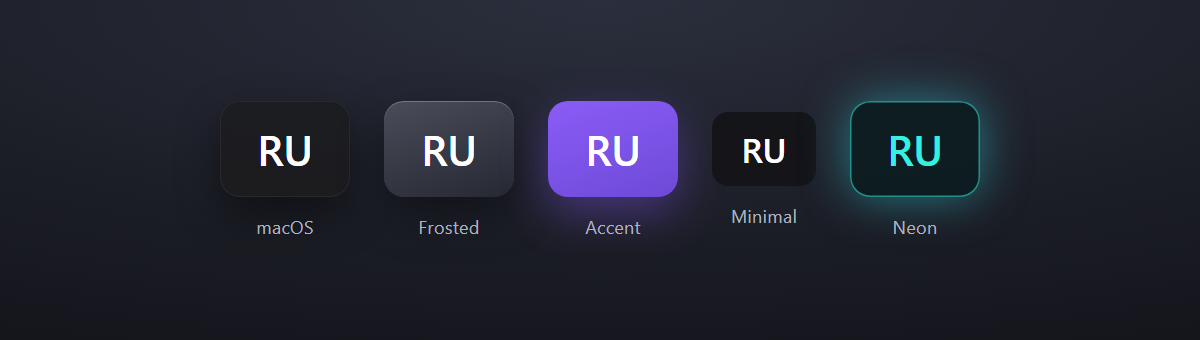
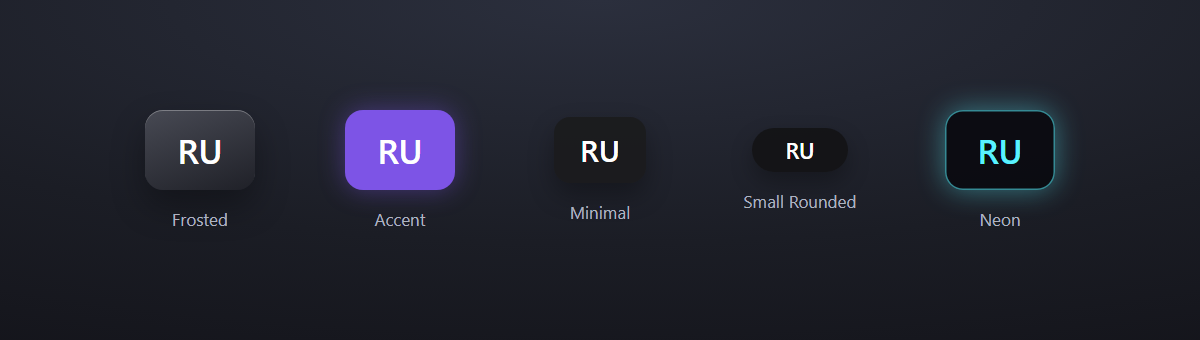
Update theme preview image to current styles (no macOS, Minimal + Small Rounded)

diff --git a/README.md b/README.md
@@ -19,7 +19,7 @@
 ## Themes
 
 <p align="center">
-  <img src="assets/themes.png" alt="Theme presets: macOS, Frosted, Accent, Minimal, Neon" width="90%">
+  <img src="assets/themes.png" alt="Theme presets: Frosted, Accent, Minimal, Small Rounded, Neon" width="90%">
 </p>
 
 ## Features

diff --git a/README.ru.md b/README.ru.md
@@ -19,7 +19,7 @@
 ## Стили
 
 <p align="center">
-  <img src="assets/themes.png" alt="Стили: macOS, Frosted, Accent, Minimal, Neon" width="90%">
+  <img src="assets/themes.png" alt="Стили: Frosted, Accent, Minimal, Small Rounded, Neon" width="90%">
 </p>
 
 ## Возможности